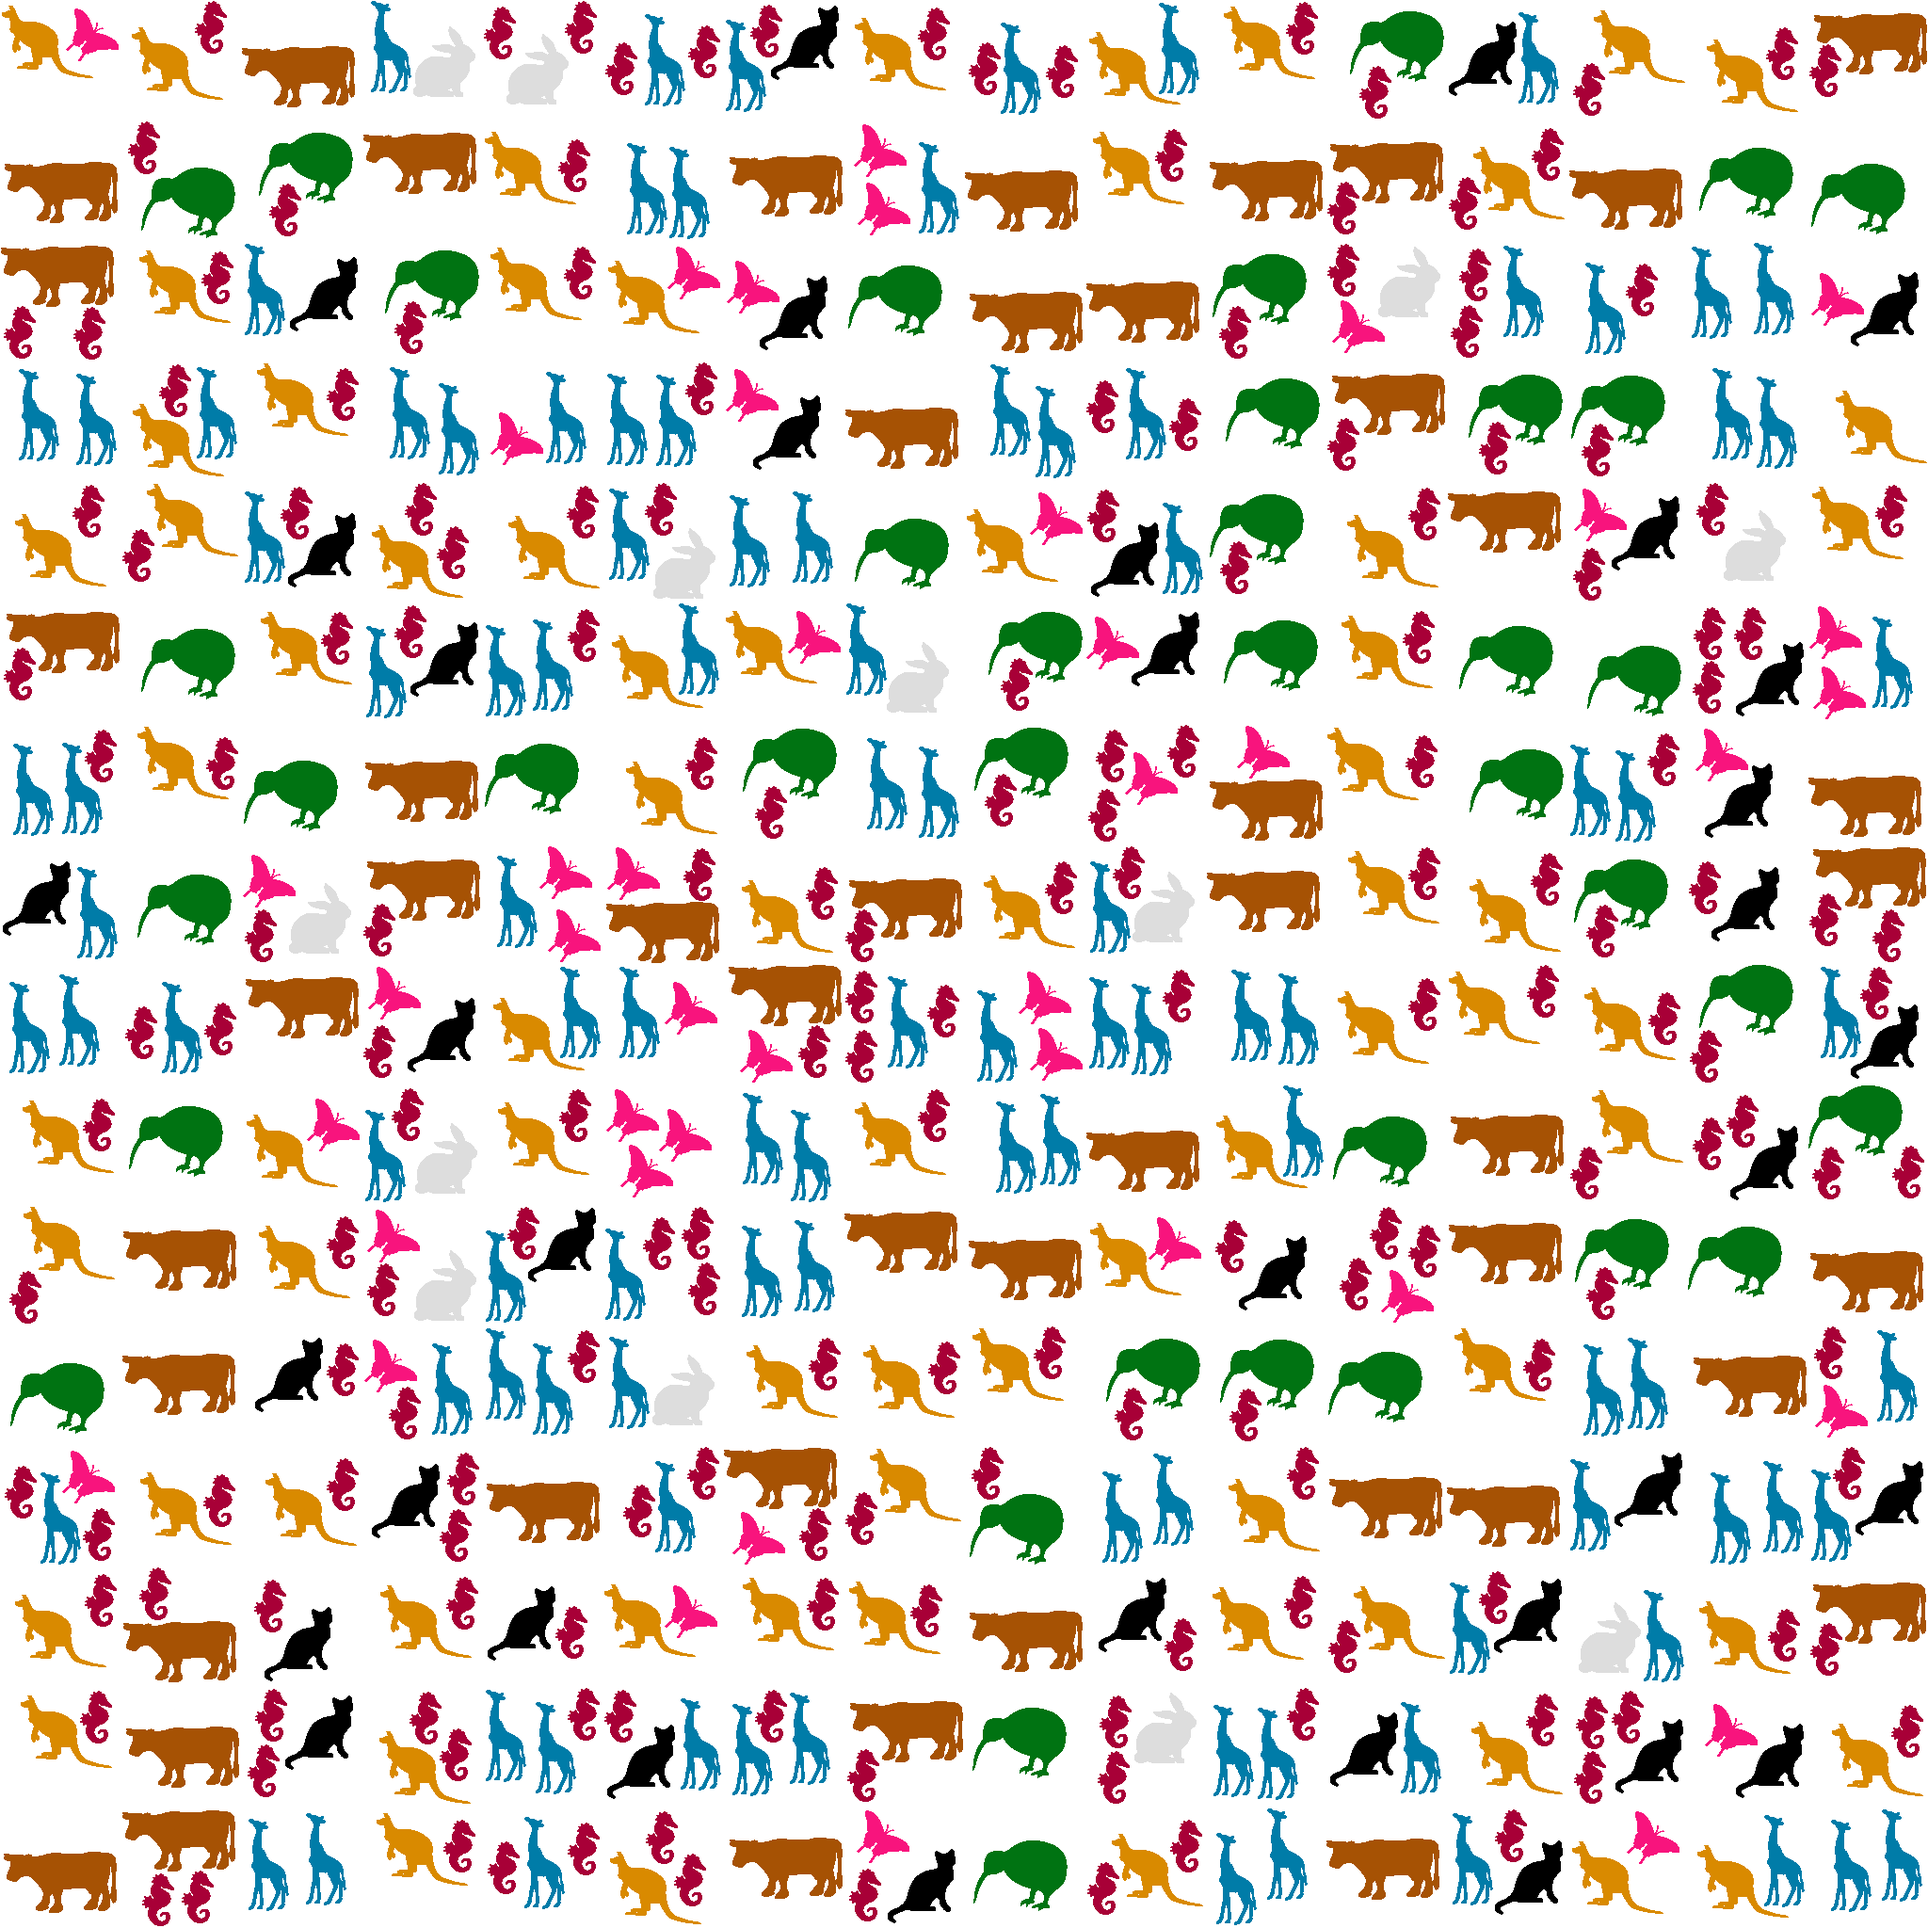
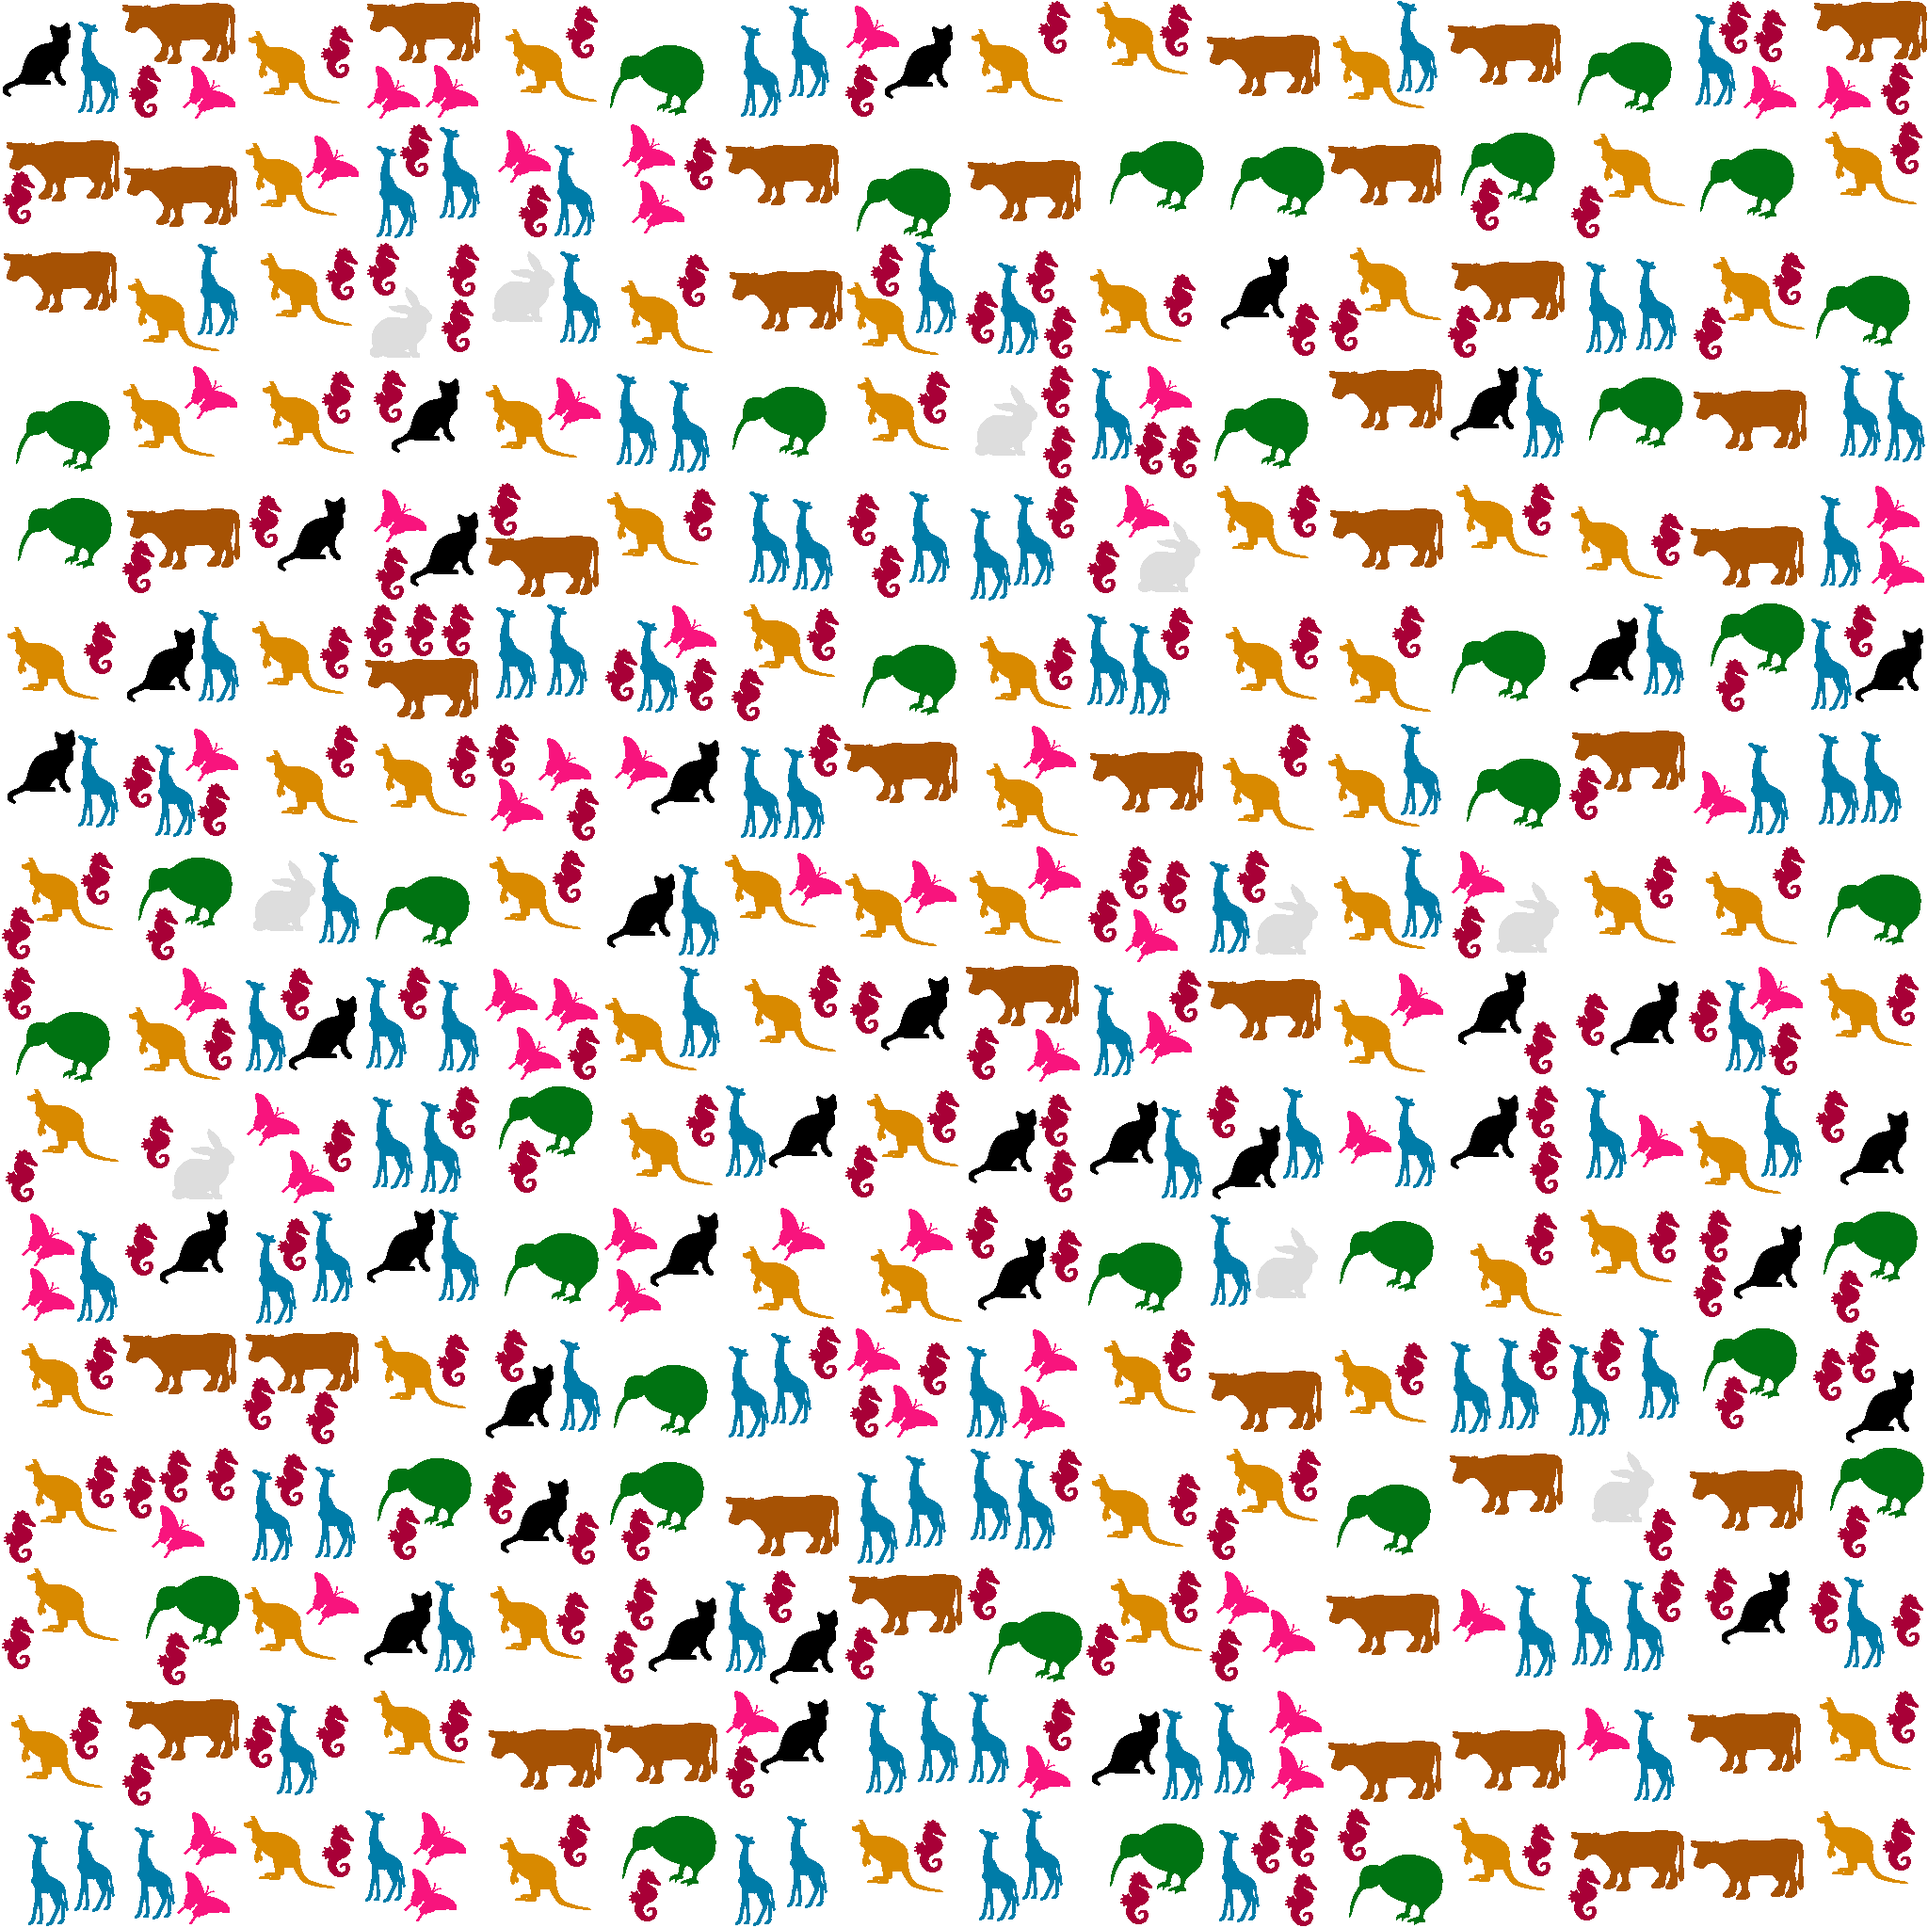
q1 done

diff --git a/q1.java b/q1.java
@@ -32,21 +32,6 @@ public class q1 {
         tilelocks = new Object[tileCols * tileRows];
         for (int i = 0; i < tilelocks.length; i++) tilelocks[i] = new Object();
     }
-    // deprecated
-    // static int singleTileIndexOrMinus1(int x, int y, int w, int h) {
-    //     if (x < 0 || y < 0 || x + w > outputwidth || y + h > outputheight) return -1;
-    
-    //     int tx0 = Math.min((x) / tileW, tileCols - 1);
-    //     int ty0 = Math.min((y) / tileH, tileRows - 1);
-    //     int tx1 = Math.min((x + w - 1) / tileW, tileCols - 1);
-    //     int ty1 = Math.min((y + h - 1) / tileH, tileRows - 1);
-    
-    //     if (tx0 != tx1 || ty0 != ty1) return -1; // crosses tile boundary
-    //     return ty0 * tileCols + tx0;
-    // }
-
-
-
 
 
     // icons image
@@ -189,13 +174,11 @@ public class q1 {
                     int maxX = Math.min(left + tileW - width,  outputwidth - width);
                     int maxY = Math.min(top  + tileH - height, outputheight - height);
 
-                    // if the icon can't fit in this tile, continue
-                    if (maxX < left || maxY < top) continue; 
-
+                    // get the random x and y of the icon in the tile
                     int x = left + random.nextInt(maxX - left + 1);
                     int y = top  + random.nextInt(maxY - top  + 1);
 
-                    int idx = ty * tileCols + tx; // guaranteed single tile
+                    int idx = ty * tileCols + tx; 
                     if (idx == -1) {
                         System.err.println("idx is -1");
                         continue;
@@ -204,7 +187,7 @@ public class q1 {
 
                     synchronized (tilelocks[idx]) {
                         // System.err.println(idx);
-                        // // varify the icons
+                        // use a rectangle boundary check to validate the position
                         boolean posvalid = true;
                         // top & bottom edges
                         for (int i = 0; i < width && posvalid; i++) {
